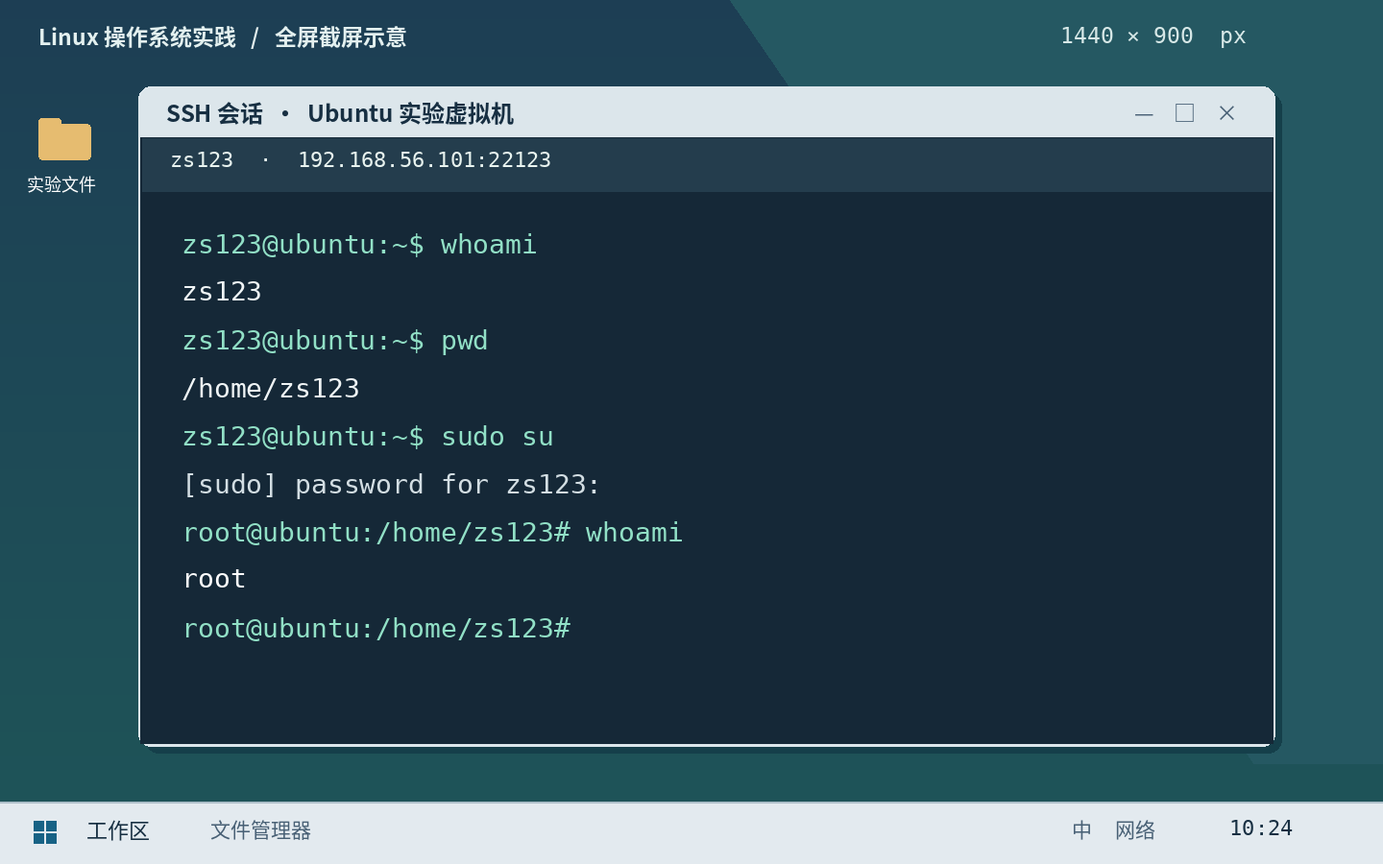
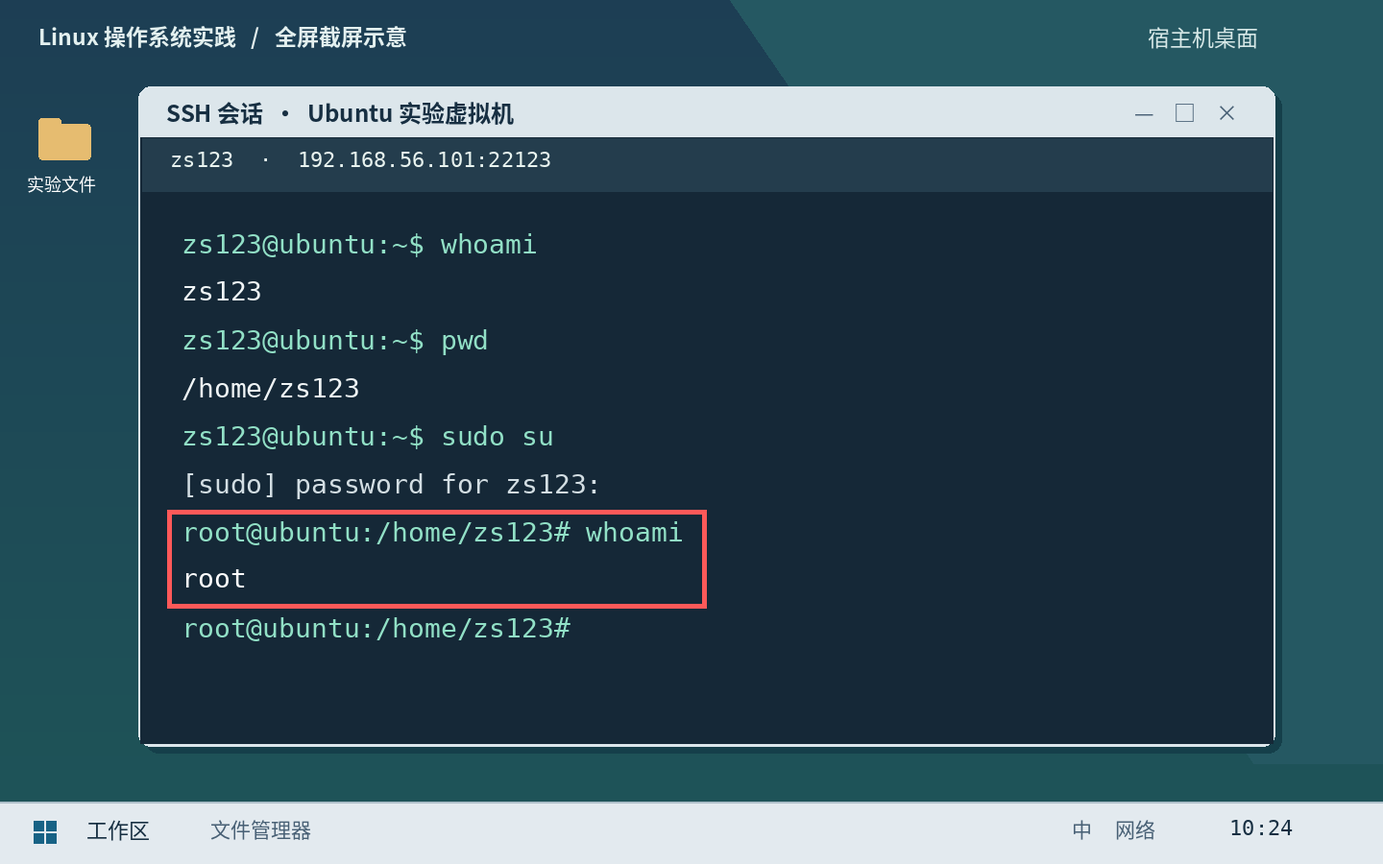
简化换源步骤，补充桌面中文设置与全屏红框图例

Changed region(s): [[0.0938, 0.5911, 0.5312, 0.7156], [0.7812, 0.0311, 0.9062, 0.0622]]

diff --git a/docs/index.html b/docs/index.html
@@ -9,7 +9,7 @@ output: Linux
 ---
 <h2>实验目录</h2>
 <p>请按顺序完成五项实验。先读本章的验收要求，操作到指定界面时就截图，尤其要保留系统安装过程中的画面。</p>
-<blockquote><p><strong>所有实验均须全屏截屏。</strong> 从显示屏左上角第一个像素到右下角最后一个像素，完整保留整块显示屏的画面。第一次截图前，请先看<a href="screenshots.html">全屏截屏方法与图例</a>。</p></blockquote>
+<blockquote><p><strong>所有实验均须全屏截屏。</strong> 实验时屏幕上看到的内容都要截进去，包括顶部标题栏、虚拟机窗口、底部任务栏和右下角时间。需要强调某处时，在全屏图上加红色空心框。第一次截图前，请先看<a href="screenshots.html">全屏截屏方法与图例</a>。</p></blockquote>
 <div class="lab-list">
 <a href="lab1.html"><span class="num">01</span><div><strong>在虚拟机中安装 Linux</strong><small>创建虚拟机，使用英语安装 Ubuntu，核对新系统的配置。</small></div><span class="tag">虚拟化</span></a>
 <a href="lab2.html"><span class="num">02</span><div><strong>Linux 基本操作</strong><small>更换软件源、配置中文支持，并从宿主机用 SSH 登录。</small></div><span class="tag">系统管理</span></a>
@@ -20,5 +20,5 @@ output: Linux
 <h2>开始前</h2>
 <ul><li>准备个人电脑、虚拟机软件和 Ubuntu 安装镜像。示例以 Ubuntu Server 22.04 LTS、Bash 和 Ubuntu 默认软件包为主。选择其他发行版时，请在报告中说明差异。</li>
 <li>全文用虚构学生“张三”、姓名首字母 <code>zs</code>、学号后三位 <code>123</code> 演示命名。操作时换成自己的信息，后三位有前导零时也要保留。</li>
-<li>实验用虚拟机采用宿主机可达的隔离网络，按需通过 NAT 下载软件。使用课程约定口令的账号只在此环境中使用。截图前收起无关窗口，待密码输入框显示掩码或终端回到提示符后取图。</li></ul>
+<li>实验用虚拟机采用宿主机可达的隔离网络，按需通过 NAT 下载软件。实验二提供 Ubuntu Desktop 和 Server 的操作方法。</li></ul>
 <p><a class="next" href="submission.html">查看报告命名、提交与评分要求</a></p>

diff --git a/docs/lab2.md b/docs/lab2.md
@@ -10,56 +10,126 @@ output: zs123
 
 进入实验一安装的虚拟机。示例以首字母 `zs`、学号后三位 `123` 为例。先把本人的三位后缀写在草稿中。若后三位是 `007`，对应账号为 `zs007`，SSH 端口为 `22007`。
 
-> **本章截屏**　无论是在虚拟机控制台还是宿主机的 SSH 客户端操作，都截取整块实验显示屏，从左上角第一个像素到右下角最后一个像素。保留终端提示符、命令与实际输出。[查看终端取图样式](screenshots.html#terminal)
+> **本章截屏**　请在宿主机截取整个屏幕。用红框标出镜像地址、中文提示或 SSH 登录结果，保留窗口周围的桌面和任务栏。[查看终端取图样式](screenshots.html#terminal)
 
-## 1. 备份、清理并更换软件源
+<h2 id="apt">1. 更换 Ubuntu 软件源</h2>
 
-本节示例针对 Ubuntu 20.04 / 22.04 的传统 `/etc/apt/sources.list`。先用 `cat /etc/os-release`、`dpkg --print-architecture` 和 `ls /etc/apt/sources.list.d` 确认版本、架构和实际源文件。使用 deb822 格式（`ubuntu.sources`）时，段间空行有意义，应保留；请按所在发行版的镜像说明修改 `URIs:`，并在报告中解释差异。
+### 换源前：用 cat 查看并备份
 
-1. 备份默认文件并截图。`-n` 保留第一次备份；请在修改前核对备份有内容。
+先运行 `cat /etc/os-release`，记下 `VERSION_CODENAME` 后的版本代号。下面两组命令只执行与你的系统对应的一组。第一行显示原配置，第二行把它备份到家目录。保留“换源前”的全屏图。
 
-   ```bash
-   src=/etc/apt/sources.list
-   sudo cp -n "$src" "$src.before-lab"
-   ls -l "$src" "$src.before-lab"
-   cat "$src.before-lab"
-   ```
+**传统格式**（常见于 Ubuntu 22.04 及更早版本），每条源以 `deb` 开头。
 
-2. 在家目录执行 `nano clean-sources.sh`，粘贴下方正文，首行应是 `#!/usr/bin/env bash`。按 `Ctrl+O`、回车保存，再按 `Ctrl+X` 退出。先运行 `bash -n clean-sources.sh` 检查语法，正常时没有输出，然后执行 `bash clean-sources.sh`。它从原文件读入，在临时文件中去除整行注释和空行，确认至少存在一条二进制软件源后才写回。在报告中以文本贴出脚本，并截取执行后的列表。
+```bash
+cat /etc/apt/sources.list
+cp -nv /etc/apt/sources.list ~/sources.list.bak
+```
 
-   ```bash
-   #!/usr/bin/env bash
-   set -eu
-   src=/etc/apt/sources.list
-   tmp=$(mktemp)
-   trap 'rm -f "$tmp"' EXIT
-   sed -E '/^[[:space:]]*(#|$)/d' "$src" > "$tmp"
-   grep -Eq '^deb[[:space:]]' "$tmp"
-   sudo install -m 644 "$tmp" "$src"
-   cat "$src"
-   ```
+**deb822 格式**（Ubuntu 24.04 起默认使用），文件中有 `Types:` 和 `URIs:`。旧版文件 `sources.list` 若只提示“配置已移至 ubuntu.sources”，请用下面的文件备份。
 
-3. 先截取清理后的旧源。在 x86 Ubuntu 上，可将官方主仓库替换为清华镜像，保留发行版代号、组件和官方安全更新源。以下命令适用于 `archive.ubuntu.com` 及其国家镜像；如原地址不同，请按原文件选择对应镜像。替换后再次截图，前后应能比较域名和发行版代号。
+```bash
+cat /etc/apt/sources.list.d/ubuntu.sources
+cp -nv /etc/apt/sources.list.d/ubuntu.sources ~/ubuntu.sources.bak
+```
 
-   ```bash
-   sudo sed -Ei 's@https?://([a-z][a-z]\.)?archive\.ubuntu\.com/ubuntu@https://mirrors.tuna.tsinghua.edu.cn/ubuntu@g' /etc/apt/sources.list
-   cat /etc/apt/sources.list
-   ```
+### 选择一种方法换源
 
-4. 执行 `sudo apt update` 更新索引，再执行 `sudo apt upgrade` 更新软件包；先阅读变更摘要，再确认。截图应能看到镜像访问结果以及升级结果。若已是最新版本，保留“0 upgraded”等真实输出。
+**Ubuntu Desktop 图形界面**
 
-**换源前后怎样取图。** 替换前先执行 `grep '^deb ' /etc/apt/sources.list` 并截全屏，替换后在同一终端重复该命令再截一张。图注写出实际变化的仓库域名、仍使用的版本代号。若清屏后看不到备份动作，可单独显示备份文件路径；若 `apt update` 报错，先读第一条错误，核对域名、网络和源中的发行版代号，再重新更新。
+1. 按 `Super` 键（通常是 Windows 徽标键），搜索并打开 **Software & Updates（软件和更新）**。进入 **Ubuntu Software（Ubuntu 软件）** 标签页。
+2. 点 **Download from（下载自）→ Other…（其他站点）**，展开 **China（中国）**，选中 `mirrors.tuna.tsinghua.edu.cn`，点 **Choose Server（选择服务器）**。
+3. 点 **Close（关闭）**，出现提示时点 **Reload（重新载入）**。等刷新完成后回到刚才的终端。若列表里找不到清华站点，可使用下方的终端方法。
 
-## 2. 启用中文命令帮助
+**终端方法（Server 或 Desktop）**
+
+1. 打开清华帮助页，选择本机的 Ubuntu 版本和文件格式，复制页面生成的完整配置。ARM 版虚拟机（如 Apple 芯片 Mac 上的 ARM 版 Ubuntu）使用 Ubuntu Ports 页面。[清华 Ubuntu 镜像帮助](https://mirrors.tuna.tsinghua.edu.cn/help/ubuntu/) · [清华 Ubuntu Ports 帮助](https://mirrors.tuna.tsinghua.edu.cn/help/ubuntu-ports/)
+2. 打开刚才查看的文件。传统格式用 `sudo nano /etc/apt/sources.list`，deb822 格式用 `sudo nano /etc/apt/sources.list.d/ubuntu.sources`。在文件开头按 `Ctrl+K` 逐行清除原内容，粘贴新的配置。按 `Ctrl+O`、回车保存，再按 `Ctrl+X` 退出。
+
+### 换源后：用 cat 查看并验证
+
+再次执行换源前的那条命令（`cat /etc/apt/sources.list` 或 `cat /etc/apt/sources.list.d/ubuntu.sources`），截取“换源后”的全屏图。在前后两张图上分别用红框标出原地址和清华地址，核对版本代号相同。然后运行 `sudo apt update`，看到清华镜像的索引成功读取后，再运行 `sudo apt upgrade` 更新软件包。若提示已是最新版本，报告中保留实际输出即可。
+
+### 两种格式的清华源示例（x86 虚拟机）
+
+**传统格式 · Ubuntu 22.04（`jammy`）**　每行表示一个软件源。
+
+```text
+deb https://mirrors.tuna.tsinghua.edu.cn/ubuntu/ jammy main restricted universe multiverse
+deb https://mirrors.tuna.tsinghua.edu.cn/ubuntu/ jammy-updates main restricted universe multiverse
+deb https://mirrors.tuna.tsinghua.edu.cn/ubuntu/ jammy-backports main restricted universe multiverse
+deb http://security.ubuntu.com/ubuntu/ jammy-security main restricted universe multiverse
+```
+
+**deb822 格式 · Ubuntu 24.04（`noble`）**　地址写在 `URIs:` 后面。两段之间留一个空行，第二段沿用 Ubuntu 官方安全更新地址。
+
+```text
+Types: deb
+URIs: https://mirrors.tuna.tsinghua.edu.cn/ubuntu/
+Suites: noble noble-updates noble-backports
+Components: main restricted universe multiverse
+Signed-By: /usr/share/keyrings/ubuntu-archive-keyring.gpg
+
+Types: deb
+URIs: http://security.ubuntu.com/ubuntu/
+Suites: noble-security
+Components: main restricted universe multiverse
+Signed-By: /usr/share/keyrings/ubuntu-archive-keyring.gpg
+```
+
+### 报告中的 Shell 练习：清理原配置
+
+用刚才备份的原配置完成这项练习。执行 `nano ~/clean-sources.sh`，按本机格式**只写对应的一行**。
+
+传统格式删除注释行和空行。
+
+```bash
+sed '/^[[:space:]]*#/d; /^[[:space:]]*$/d' ~/sources.list.bak
+```
+
+deb822 删除注释行，合并多余空行，保留软件源之间的分段。
+
+```bash
+sed '/^[[:space:]]*#/d; s/^[[:space:]]*$//' ~/ubuntu.sources.bak | cat -s
+```
+
+保存后运行下面两行。将脚本正文写进报告，截取清理结果。
+
+```bash
+bash ~/clean-sources.sh > ~/sources-cleaned.txt
+cat ~/sources-cleaned.txt
+```
+
+
+<h2 id="chinese">2. 切换中文并验证命令帮助</h2>
+
+在实验一用英语安装的系统中，选择下面一种方法启用简体中文。完成后都用终端里的 `man` 验证。
+
+### Ubuntu Desktop 图形界面
+
+1. 按 `Super` 键，搜索 **Region & Language（区域与语言）**。也可以从 **Settings（设置）→ System（系统）→ Region & Language** 进入。较早版本的“区域与语言”直接列在设置侧栏。
+2. 打开 **Manage Installed Languages（管理已安装的语言）→ Install / Remove Languages（安装或删除语言）**，勾选 **Chinese (simplified)（简体中文）**，点 **Apply Changes（应用更改）**，等语言包安装完成。也可以在应用菜单中搜索 **Language Support（语言支持）** 进入这个窗口。
+3. 回到“区域与语言”，在当前用户的 **Language（语言）** 中选 **中文（中国）** 并确认。如果本机显示的是“语言支持”窗口，把“汉语（中国）”拖到界面语言列表的第一位。注销并重新登录，打开“设置”查看中文菜单。
+4. 打开终端，执行下方的 `man`，截取中文提示。如果桌面已变成中文而 `man` 仍显示英文，按下面的命令安装中文手册和语言包后再验证。[Ubuntu 安装语言帮助](https://help.ubuntu.com/stable/ubuntu-help/prefs-language-install.html) · [Ubuntu 切换显示语言帮助](https://help.ubuntu.com/stable/ubuntu-help/session-language.html.en)
+
+### 终端方法（Server 或 Desktop）
+
+安装中文支持并生成简体中文环境。最后一行让本次终端会话使用中文，立即生效。
 
 ```bash
 sudo apt install language-pack-zh-hans locales man-db manpages-zh
 sudo locale-gen zh_CN.UTF-8
-locale -a | grep -i zh_cn
-LC_ALL=zh_CN.UTF-8 LANGUAGE=zh_CN:zh man
+export LANG=zh_CN.UTF-8 LANGUAGE=zh_CN:zh LC_MESSAGES=zh_CN.UTF-8
 ```
 
-最后一条故意不指定手册页，观察并截取中文提示。也可用 `LC_ALL=zh_CN.UTF-8 LANGUAGE=zh_CN:zh man ls` 查看中文手册，按 `q` 退出。安装英文系统不妨碍单独为一个命令选择中文环境。
+希望重新登录后仍使用中文时，再执行 `sudo update-locale LANG=zh_CN.UTF-8 LANGUAGE=zh_CN:zh`，然后注销并重新登录。
+
+### 两种方法都这样验收
+
+```bash
+man
+```
+
+这里有意只输入 `man`，让终端显示“您需要什么手册页？”或本机版本的同类中文提示。在宿主机截全屏，用红框标出命令及中文回答。如果 Server 的纯文本控制台显示方框，完成本章的 SSH 登录后在宿主机终端查看中文。想读一页手册时，可以再输入 `man ls`，按 `q` 退出。
 
 ## 3. 安装并配置 SSH 服务
 
@@ -118,8 +188,8 @@ exit
 
 | 环节 | 最少保留内容 |
 | --- | --- |
-| 软件源 | 备份和脚本清理的**命令文本及截图**、换源前后列表截图、更新软件截图 |
-| 中文与 SSH | 终端中文帮助、SSH 服务端安装、禁止 root 远程登录和个人端口的配置截图 |
+| 软件源 | 备份和脚本清理的命令文本及截图、两次 `cat` 的全屏图、软件更新结果 |
+| 中文与 SSH | 桌面或终端启用中文后 `man` 的中文提示、SSH 服务端安装、禁止 root 远程登录和个人端口的配置截图 |
 | 新账号 | 创建家目录、追加 sudo 组的命令文本及截图；新用户执行 `sudo su` 成功进入 root 的截图 |
 | 远程访问 | SSH 客户端配置和连接成功两类画面，能辨认地址、端口和用户名 |
 

diff --git a/docs/screenshots.md b/docs/screenshots.md
@@ -8,20 +8,18 @@ output: zs123
 ---
 ## 截图范围
 
-**每一张实验截图都必须包含显示屏的全部可见信息：从左上角第一个像素，到右下角最后一个像素。** 例如，实际输出为 1920 × 1080 像素的单屏画面，应保留从 `(0, 0)` 到 `(1919, 1079)` 的全部像素。其他分辨率按本机实际尺寸取图。
+**截屏时你在显示屏上看到的内容，都要完整出现在图里。** 例如，在 Windows 桌面运行虚拟机时，从顶部标题栏、整个虚拟机窗口，到底部任务栏和右下角时间，都应能看到。其他桌面按实际画面检查；时间显示在顶栏，就把顶栏一起保留。
 
-- **在宿主机上取图。** 虚拟机、Xshell 或浏览器以窗口运行时，宿主机桌面及当时可见的任务栏、标题栏、地址栏均在截图范围内。虚拟机已占满显示屏时，直接从宿主机截整屏即可。
-- **多显示器。** 先把本步骤涉及的窗口放在同一块实验显示屏上。选择能直接截取这块完整屏幕的模式；工具若总是把多屏合成一张，可在取图前临时切换为单屏显示，然后重新截全屏。
-- **长输出或长网页。** 第一屏拍清命令或页面地址与起始结果，向下滚动后再拍下一屏，相邻两张保留几行重叠内容。每一次取图都要包含整块显示屏。请勿用滚动长图或多张拼图代替逐屏记录。
+- **选整块显示屏。** 在宿主机使用“全屏截图”。如果你有多块显示屏，把实验窗口移到同一块，截取这一整块显示屏。
+- **重点用红框标出。** 先截全屏，再用红色空心矩形圈出需要老师看的内容，例如用户名、清华源地址或 `whoami` 的结果。红框留一点边距，让文字完整可读。
+- **超过一屏就分张截。** 第一张保留命令或网页地址与起始结果，再向下滚动截下一整屏。相邻两张保留几行相同内容，方便连起来看。
 
 ## 在宿主机上怎样截
 
-1. **先整理画面。** 关闭聊天、邮件和无关网页，收起通知。调大终端字体或浏览器字号，让命令及关键结果在 Word 中也能辨认。把真实密码、密钥移出可见区域，或先返回验证结果页。如果原图意外含有秘密，回到合适的画面重新取图。
-2. **停在需要的瞬间。** 安装确认页先截图再点下一步；终端等命令输出结束；网页等地址和结果都显示。请使用自己的操作画面。
-3. **选择整屏模式。** 按本节下表选择对应系统的操作方法。虚拟机占用键盘时，先用虚拟机软件的“释放输入”功能交还宿主机，再调用宿主机截图工具。
-
-4. **保存并检查原图。** 在图片属性或信息中核对像素宽高。高分屏以实际截得的显示像素为准。再看四边是否保留现场内容；单凭宽高相同不能证明全屏，例如把局部放大到相同尺寸仍缺少画面。保存为 PNG 可让小字号更清楚。
-5. **放入报告。** 在 Word 中用“插入 → 图片”选原图，按比例缩放；需要突出某个字段时，在图下用文字指出其位置。保留原图四边，不使用 Word 的“裁剪”。图注写“在哪一步、对什么做了什么、得到什么结果”。
+1. 调大终端或浏览器字号。安装时停在需要记录的页面，终端等结果出现，网页等地址和正文都显示。
+2. 按下表选择宿主机的全屏截取方式。若按键被虚拟机接收，先用虚拟机的“释放输入”功能把键盘交回宿主机。
+3. 打开截图，对照取图时的屏幕检查四边和四角，尤其是标题栏、任务栏和时间。如果只剩中间的窗口，回到该步骤重截。
+4. 将全屏图插入 Word，等比例缩放。要标重点，可在“插入 → 形状”选矩形，将“形状填充”设为“无填充”，“形状轮廓”选红色，把框拖到要说明的位置。也可以在截图工具里直接画红框。图下注明操作及实际结果。
 
 | 宿主机 | 操作方法 |
 | --- | --- |
@@ -35,13 +33,13 @@ output: zs123
 
 [![安装界面全屏示意，宿主机桌面、虚拟机标题栏、用户名字段和底部任务栏可见](assets/capture-installer.png)](assets/capture-installer.png)
 
-**看这几处。** 左上、右下及其余两个角都属于宿主机显示屏；中间才是虚拟机窗口。保持 “Profile setup”、虚拟机名称和 “Pick a username” 同屏，密码框显示掩码。图注示例：“实验一，创建用户：我在英语安装界面将登录名设为 `zs`。”
+**看这几处。** 左上、右下及其余两个角都属于宿主机显示屏；中间才是虚拟机窗口。让 “Profile setup”、虚拟机名称和 “Pick a username” 同屏。图注示例：“实验一，创建用户：我在英语安装界面将登录名设为 `zs`。”
 
 <h2 id="terminal">终端：把命令、身份和结果放在同一屏</h2>
 
-[![终端全屏示意，远程用户名、whoami、sudo su 及 root 输出处于同一完整桌面内](assets/capture-terminal.png)](assets/capture-terminal.png)
+[![终端全屏示意，红框标出第二次 whoami 及其 root 输出，周围完整桌面可见](assets/capture-terminal.png)](assets/capture-terminal.png)
 
-**看这几处。** 先显示普通用户提示符和 `whoami` 的结果，再执行 `sudo su` 与第二次 `whoami`。待 `root` 出现，留在当前界面取图。图注示例：“实验二，验证提权：第一次查询身份为 `zs123`，提权后同一会话返回 `root`。”
+**看这几处。** 先显示普通用户提示符和 `whoami` 的结果，再执行 `sudo su` 与第二次 `whoami`。待 `root` 出现，留在当前界面截全屏。图中的红框圈出了第二次 `whoami` 和返回的 `root`，桌面和任务栏仍完整可见。图注示例：“实验二，验证提权：第一次查询身份为 `zs123`，提权后同一会话返回 `root`。”
 
 **局部截屏反例。** 下图摘自同一示意图。虽然读得到 `root`，但显示屏四边、会话标题和前一步的账号都已丢失。这种图片需要重新全屏截取。
 

diff --git a/docs/lab3.md b/docs/lab3.md
@@ -10,7 +10,7 @@ output: "200"
 
 让 Nginx 接收浏览器请求，交给 PHP-FPM 执行 PHP，由 WordPress 读写 MySQL。phpMyAdmin 用于管理数据库。使用实验二的虚拟机，示例中的 `zs`、`123` 和 IP 均须替换。可登录实验一建立的首字母账号执行本章命令。先记下 `whoami` 和 `id -gn` 的结果。
 
-> **本章截屏**　每张图须覆盖整块实验显示屏，从左上角第一个像素到右下角最后一个像素。终端保留命令和输出，浏览器保留地址栏和页面结果。输入真实口令或生成密钥后，先切换到能验证结果且不显示秘密的画面再截屏。[查看网页取图样式](screenshots.html#browser)
+> **本章截屏**　从宿主机截取整个屏幕。终端保留命令和输出，浏览器保留地址栏和页面结果。需要强调库名或文章标题时，在全屏图上加红框。[查看网页取图样式](screenshots.html#browser)
 
 ## 1. 安装并识别三个服务
 
@@ -87,10 +87,10 @@ printf '%s\n' '<?php phpinfo();' > "$webroot/info.php"
    ls -ld "$pma"
    ```
 
-2. 在虚拟机运行 `sudo mysql`。建立供 phpMyAdmin 登录的本机管理账号 `lab_pma`。下面两条授权分别用于创建本地数据库账号和向 `wp` 库授予权限。将演示占位符换为本实验独立口令，报告不要显示实际口令。
+2. 在虚拟机运行 `sudo mysql`。建立供 phpMyAdmin 登录的本机管理账号 `lab_pma`。下面两条授权分别用于创建本地数据库账号和向 `wp` 库授予权限。本节用 `123456` 举例，登录时输入建账号时设置的密码。
 
    ```sql
-   CREATE USER 'lab_pma'@'localhost' IDENTIFIED BY '替换为独立管理口令';
+   CREATE USER 'lab_pma'@'localhost' IDENTIFIED BY '123456';
    GRANT CREATE USER ON *.* TO 'lab_pma'@'localhost';
    GRANT ALL PRIVILEGES ON wp.* TO 'lab_pma'@'localhost' WITH GRANT OPTION;
    SHOW GRANTS FOR 'lab_pma'@'localhost';
@@ -98,22 +98,22 @@ printf '%s\n' '<?php phpinfo();' > "$webroot/info.php"
    ```
 
 3. **记录模板指定的短语配置。** 原模板点名 `libraries/config.default.php` 和站点根目录的 `config.inc.php`，要求指出 `$cfg['blowfish_secret']` 并以姓名全拼演示，例如 `zhangsan`。先查找实际文件；将两份存在的文件复制到家目录的练习文件夹，在副本中按模板修改，截图标注“模板演示副本”、路径和版本。某版本若无默认文件，就记录实测目录。报告再单独给出实际运行配置的证据。
-4. **配置实际站点。** phpMyAdmin 官方将用户配置放在 `config.inc.php`，默认文件由软件包维护；cookie 认证使用 32 字节随机密钥。下面的命令在虚拟机内生成一份 PHP 赋值语句，输出粘贴到实际 `config.inc.php` 替换原有短语设置。保留示例中的 `auth_type = 'cookie'` 和 `host = 'localhost'`。屏幕截图请遮蔽随机值。**姓名全拼与有效密钥的区别要在报告里解释清楚。**
+4. **配置实际站点。** phpMyAdmin 官方将用户配置放在 `config.inc.php`，默认文件由软件包维护；cookie 认证使用 32 字节随机密钥。下面的命令在虚拟机内生成一份 PHP 赋值语句，输出粘贴到实际 `config.inc.php` 替换原有短语设置。保留示例中的 `auth_type = 'cookie'` 和 `host = 'localhost'`。**姓名全拼与有效密钥的区别要在报告里解释清楚。**
 
    ```bash
    php -r 'printf("\$cfg[\x27blowfish_secret\x27] = sodium_hex2bin(\x27%s\x27);\n", bin2hex(random_bytes(32)));'
    ```
 
-5. 在宿主机打开 `http://虚拟机IP/pma123/`，用 `lab_pma` 登录。进入 **SQL** 页，逐条执行下列语句。网页上的管理账号可能看不到全局“用户账户”标签，使用 SQL 页仍可完成所授范围内的操作。将实际口令留给下一步 WordPress 使用。截取建库结果时，可从左栏选择 `wp`，或执行最后一条查询以避开含口令的语句。
+5. 在宿主机打开 `http://虚拟机IP/pma123/`，用 `lab_pma` 登录。进入 **SQL** 页，逐条执行下列语句。网页上的管理账号可能看不到全局“用户账户”标签，使用 SQL 页仍可完成所授范围内的操作。记下 `wp` 用户的密码，下一步配置 WordPress 时会用到。
 
    ```sql
    CREATE DATABASE wp CHARACTER SET utf8mb4;
-   CREATE USER 'wp'@'localhost' IDENTIFIED BY '替换为独立博客口令';
+   CREATE USER 'wp'@'localhost' IDENTIFIED BY '123456';
    GRANT ALL PRIVILEGES ON wp.* TO 'wp'@'localhost';
    SHOW DATABASES LIKE 'wp';
    ```
 
-**数据库页面怎样核验。** 在 phpMyAdmin 执行含密码的语句后，打开新的 SQL 查询页，确认其中没有前次口令，再执行 `SHOW DATABASES LIKE 'wp';`。截取宿主机全屏，应同时看到地址栏里的 `pma后三位`、查询结果的 `wp` 和左侧库名。要记录授权，可在虚拟机的 MySQL 管理会话执行 `SHOW GRANTS FOR 'wp'@'localhost';`。短语配置的实际运行证据可用 `php -l "$pma/config.inc.php"` 的语法检查结果配合网页登录画面；真实随机串留在文件内。
+**数据库页面怎样核验。** 在 phpMyAdmin 的 SQL 页执行 `SHOW DATABASES LIKE 'wp';`。截取宿主机全屏，应同时看到地址栏里的 `pma后三位`、查询结果的 `wp` 和左侧库名。要记录授权，可在虚拟机的 MySQL 管理会话执行 `SHOW GRANTS FOR 'wp'@'localhost';`。短语配置的实际运行证据可用 `php -l "$pma/config.inc.php"` 的语法检查结果配合网页登录画面。
 
 ## 4. 安装 WordPress 并发表文章
 

diff --git a/docs/lab5.md b/docs/lab5.md
@@ -12,7 +12,7 @@ output: "… configuration file /etc/nginx/nginx.conf test is successful"
 
 脚本可以拆分，也可以载入预先写好的 Nginx 配置、归档包和 SQL 模板。报告中须以文本给出**所有脚本命令**，为关键语句写出注释或在报告中逐段解释。请让脚本自己完成系统配置，操作者只负责输入参数、运行和浏览器验收。
 
-> **本章截屏**　从宿主机截取整块实验显示屏，范围从左上角第一个像素到右下角最后一个像素。保留脚本调用与对应阶段日志，数据库截图只显示可公开的对象名和结果。[查看终端与网页图例](screenshots.html)
+> **本章截屏**　从宿主机截取整个屏幕。脚本运行图要看得见调用命令和阶段日志，数据库图要看得见库名和执行结果。[查看终端与网页图例](screenshots.html)
 
 ## 1. 组织输入和执行顺序
 
@@ -73,12 +73,12 @@ done
 ## 3. 自动配置 phpMyAdmin 和数据库
 
 1. 参考[实验三](lab3.html)选用匹配的发布包，在脚本内下载或从指定本地资源读取，并检查解压成功后存在 `index.php`。为 `pma后三位` 设置 `www-data` 属主，输出路径与权限。
-2. 复制 `config.sample.inc.php` 到 `config.inc.php`，以 cookie 认证和 `localhost` 配置数据库连接。可以用 PHP 辅助脚本生成 32 字节随机密钥并写入配置；第二次运行保留已有密钥。日志应说明“密钥已写入”并执行 `php -l` 检查配置，避免把实际值写入日志。按实验三的做法附上原模板要求的两份姓名全拼演示和版本说明。
-3. 由 Shell 调用本地 MySQL 完成 `lab_pma@localhost`、`wp@localhost`、`wp` 数据库及其授权。参考实验三的 SQL，重复执行时使用 `CREATE DATABASE IF NOT EXISTS` 和 `CREATE USER IF NOT EXISTS`；后者会保留已有密码。保管首次设置的独立口令，日志只打印用户名、数据库名和权限范围。SQL 文件若含真实口令，请另存去除口令的模板随报告提交。
+2. 复制 `config.sample.inc.php` 到 `config.inc.php`，以 cookie 认证和 `localhost` 配置数据库连接。可以用 PHP 辅助脚本生成 32 字节随机密钥并写入配置；第二次运行保留已有密钥。日志应说明“密钥已写入”并执行 `php -l` 检查配置。按实验三的做法附上原模板要求的两份姓名全拼演示和版本说明。
+3. 由 Shell 调用本地 MySQL 完成 `lab_pma@localhost`、`wp@localhost`、`wp` 数据库及其授权。参考实验三的 SQL，重复执行时使用 `CREATE DATABASE IF NOT EXISTS` 和 `CREATE USER IF NOT EXISTS`；后者会保留已有密码。请在报告中记录首次创建及再次运行的结果。
 4. 为取得模板要求的**网页登录后建库截图**，在独立快照的首次部署中可安排两次验收：先让脚本完成管理员授权，在 phpMyAdmin 的 SQL 页面用该管理员创建 `wp` 并截图；随后运行脚本的建库与授权阶段，用 `IF NOT EXISTS` 兼容已存在的库。再从干净快照连贯运行全部阶段，证明无人手工建库也能成功。你也可以在脚本全部运行后，在 phpMyAdmin 中执行 `CREATE DATABASE IF NOT EXISTS wp` 并截图，同时说明数据库已由脚本创建，页面显示已存在。
 5. 在浏览器中用 `wp` 登录并选择 `wp` 数据库，或用命令行 `mysql -u wp -p wp` 验证。保留管理账号登录后的建库结果与实际账户权限。记录后移除 `info.php`。
 
-**怎样记录数据库阶段。** 调试时运行 `bash configure-pma.sh zs 123`。在安装日志中找出目标目录、属主、配置文件语法检查结果和 SQL 执行结果。清除可见的含密钥输出后再截全屏。接着从宿主机访问 `http://虚拟机IP/pma123/`，在 SQL 页显示建库结果；地址、当前数据库名称和结果提示应可辨认。截图下分别写明首次创建还是重复执行时已存在。
+**怎样记录数据库阶段。** 调试时运行 `bash configure-pma.sh zs 123`。在安装日志中找出目标目录、属主、配置文件语法检查结果和 SQL 执行结果。截取全屏，用红框标出执行结果。接着从宿主机访问 `http://虚拟机IP/pma123/`，在 SQL 页显示建库结果；地址、当前数据库名称和结果提示应可辨认。截图下分别写明首次创建还是重复执行时已存在。
 
 ## 4. 验证能否复现
 

diff --git a/docs/submission.md b/docs/submission.md
@@ -12,15 +12,15 @@ output: "实验报告及配套脚本"
 2. **实验过程及结果**：按各章任务顺序编写。标注“命令”的地方，须用可复制文本写出实际命令；标注“截图”的地方，应提供完整操作过程及结果的截图。标注两者时请同时提供。每张图配一句说明，指出读者应核对的具体字段。
 3. **遇到的问题及解决方法**：从自己的实验记录中写出现象、排查依据、修正动作和复查结果。如果过程顺利，可以写你如何验证关键环节。删除模板中的占位文字。
 4. **实验心得**：选取一次实际操作，说明你掌握了什么、下次如何更快判断问题。例如用哪项检查区分 Nginx 的路径错误和 PHP-FPM 连接失败。
-5. 实验四、五须把完整脚本以**文字**放入报告，同时提交相应源文件。实验五还要对脚本作详细注释或在报告内说明。截图前关闭无关窗口，确认口令和随机密钥已经离开可见区域，保留本次操作的命令、路径和结果。
+5. 实验四、五须把完整脚本以**文字**放入报告，同时提交相应源文件。实验五还要对脚本作详细注释或在报告内说明。截图时保留本次操作的命令、路径和结果。
 
 ## 每张截图如何验收
 
-**从显示屏左上角第一个像素到右下角最后一个像素，全部截入同一张原图。** 教师核对的是当时整块实验显示屏的可见画面。只截终端、虚拟机窗口、网页正文或某个结果框，都缺少屏幕其余部分。
+**截屏时你在显示屏上看到的内容，都要完整出现在图中。** 请对照顶部标题栏、虚拟机窗口、底部任务栏和右下角时间逐一检查。只截终端、虚拟机窗口、网页正文或某个结果框，都缺少屏幕其余部分。
 
 1. **查范围。** 打开原始图片，查看四边和四角。截图时可见的桌面、任务栏、菜单栏、标题栏和地址栏都应保留。全屏控制台本来就没有桌面栏时，保留整个控制台。
 2. **查内容。** 命令截图看得清“谁执行、执行了什么、返回什么”，网页截图看得清地址和结果。输出超过一屏时，滚动后补拍一张全屏图，相邻两张保留几行相同内容。
-3. **排进 Word。** 用“插入 → 图片”选择原图，锁定纵横比适配页宽，保留四边。图下注明“实验步骤、操作对象、实际结果”。例如“实验二，第 4 步：以本人新账号通过 SSH 登录后，`sudo su` 成功，`whoami` 返回 `root`。”命令文本另列，图片小到难辨时可用横向页面或把步骤分图。
+3. **排进 Word。** 用“插入 → 图片”选择原图，锁定纵横比适配页宽，保留四边。要强调字段或结果，请在全屏图上叠加红色空心矩形。图下注明“实验步骤、操作对象、实际结果”。例如“实验二，第 4 步：以本人新账号通过 SSH 登录后，`sudo su` 成功，`whoami` 返回 `root`。”命令文本另列，图片小到难辨时可用横向页面或把步骤分图。
 
 [查看全屏截屏方法、合格图例和局部截屏反例](screenshots.html)
 
@@ -29,7 +29,7 @@ output: "实验报告及配套脚本"
 | 实验 | 对照自己的材料 |
 | --- | --- |
 | 1 · 虚拟机安装 | 虚拟机软件安装证据；机器配置、创建用户、确认安装三种画面至少各一张 |
-| 2 · Linux 基本操作 | 换源前后、脚本清理、中文帮助、SSH 端口及 root 设置、新用户家目录与提权、宿主机连接 |
+| 2 · Linux 基本操作 | 两次 `cat` 显示的换源前后配置、脚本清理、`man` 中文提示、SSH 端口及 root 设置、新用户家目录与提权、宿主机连接 |
 | 3 · 博客部署 | Nginx / PHP / MySQL 安装、站点根目录与权限、PHP 页面、phpMyAdmin 及数据库、WordPress 配置和发表文章 |
 | 4 · Shell 脚本 | 用户判断各分支、逐步打印的网站备份信息、指定网段 Ping 响应数量、三个脚本全文 |
 | 5 · 自动部署 | 完整脚本和说明、安装与各阶段日志、配置文件、PHP 页面、phpMyAdmin 登录后建库证据 |

diff --git a/docs/lab1.md b/docs/lab1.md
@@ -10,7 +10,7 @@ output: zs
 
 安装 VMware Workstation 或同类软件，创建虚拟机并使用英语安装 Linux。后续示例以 Ubuntu Server 22.04 LTS 为基准，报告模板亦列出 Ubuntu 20.04 LTS。按课程安排，安装纯命令行系统或选用非 Ubuntu 发行版可获得加分，请在报告中注明所选系统和安装方式。
 
-> **本章截屏**　请在宿主机截取整块实验显示屏，从左上角第一个像素到右下角最后一个像素。安装向导里的两处画面一旦点过就难以重现，先存图再继续。[查看安装界面图例](screenshots.html#installer)
+> **本章截屏**　请在宿主机截取整块实验显示屏，保留虚拟机窗口及其周围可见的桌面、任务栏和时间。安装向导里的两处画面一旦点过就难以重现，先存图再继续。[查看安装界面图例](screenshots.html#installer)
 
 ## 1. 准备虚拟机
 
@@ -25,8 +25,8 @@ output: zs
 
 1. 从 ISO 启动，在语言界面选择 **English**，确认键盘布局。网络使用 DHCP，若课堂没有代理，可留空代理地址。
 2. 在存储布局页辨认刚创建的虚拟磁盘，核对容量。可以使用整块虚拟磁盘。**在确认写入前截图**，画面应包含将要应用的安装配置或分区摘要。不同版本可能先确认分区，再创建账号。
-3. 在身份设置页填写姓名、主机名和用户名。**用户名使用本人姓名拼音首字母，密码按原报告填写本人学号。** 例如张三的用户名为 `zs`。截取能看见用户名的界面，密码保持遮蔽。该口令只用于本地隔离的教学虚拟机。
-4. **停在两个取证点。** 在 Ubuntu Server 的 “Storage configuration / File system summary” 页，先读出目标虚拟磁盘和分区摘要，保存全屏原图后再选 “Done”；出现写盘确认时核对目标。到 “Profile setup” 页，分清显示姓名与 “Pick a username”，后者填写姓名首字母。密码框保持掩码并保存全屏原图，再选 “Done”。请在两张图下分别标注所确认的磁盘和登录用户名。
+3. 在身份设置页填写姓名、主机名和用户名。**用户名使用本人姓名拼音首字母，密码按原报告填写本人学号。** 例如张三的用户名为 `zs`。截取身份设置页的全屏图，用红框圈出用户登录名。
+4. **停在两个取证点。** 在 Ubuntu Server 的 “Storage configuration / File system summary” 页，先读出目标虚拟磁盘和分区摘要，保存全屏原图后再选 “Done”；出现写盘确认时核对目标。到 “Profile setup” 页，分清显示姓名与 “Pick a username”，后者填写姓名首字母。保存全屏图，再选 “Done”。请在两张图下分别标注所确认的磁盘和登录用户名。
 5. 等待安装结束，移除 ISO 后重启。出现 `login:` 时输入刚建立的账号。输入密码时终端不会回显字符，输入后按回车即可。
 
 ## 3. 登录后核验

diff --git a/docs/lab4.md b/docs/lab4.md
@@ -10,7 +10,7 @@ output: OK
 
 在已完成实验三的 Ubuntu 虚拟机上工作。可以在家目录新建 `linux-labs/lab4` 目录保存三个脚本。每个脚本第一行写 `#!/usr/bin/env bash`，保存后先用 `bash -n 文件名` 检查语法，再用 `bash 文件名` 运行。以下代码片段用来说明关键判断，请补齐自己的脚本并验证。
 
-> **本章截屏**　每个脚本要让人看清测试输入和实际分支。请保留整块实验显示屏，从左上角第一个像素到右下角最后一个像素。长输出可分几张全屏图记录。[查看终端取图样式](screenshots.html#terminal)
+> **本章截屏**　每个脚本要让人看清测试输入和实际分支。请在宿主机截取整个屏幕，用红框圈出本次输入和对应输出。长输出可分几张全屏图记录。[查看终端取图样式](screenshots.html#terminal)
 
 **先建工作目录。** 执行 `mkdir -p ~/linux-labs/lab4`、`cd ~/linux-labs/lab4`，再用 `pwd` 核对路径。分别保存为 `check-user.sh`、`backup-site.sh` 和 `ping-count.sh`。用 `nano 文件名` 编辑，`Ctrl+O` 后按回车写入，`Ctrl+X` 退出。以下文件名仅供对照。
 
@@ -48,7 +48,7 @@ fi
 printf '站点根目录：%s\n' "$webroot"
 ```
 
-**最后归档。** 将归档保存在 `$HOME/backup`。用日期命名；如果需要同日重复测试，可增加时分秒。`tar -C` 能让归档保留相对路径。若目录内有仅限服务账号读取的配置文件，可只给 `tar` 提升读取权限，归档文件仍由普通用户的 Shell 创建。归档可能含数据库口令，请保留在虚拟机中。
+**最后归档。** 将归档保存在 `$HOME/backup`。用日期命名；如果需要同日重复测试，可增加时分秒。`tar -C` 能让归档保留相对路径。若目录内有仅限服务账号读取的配置文件，可只给 `tar` 提升读取权限，归档文件仍由普通用户的 Shell 创建。
 
 ```bash
 umask 077
